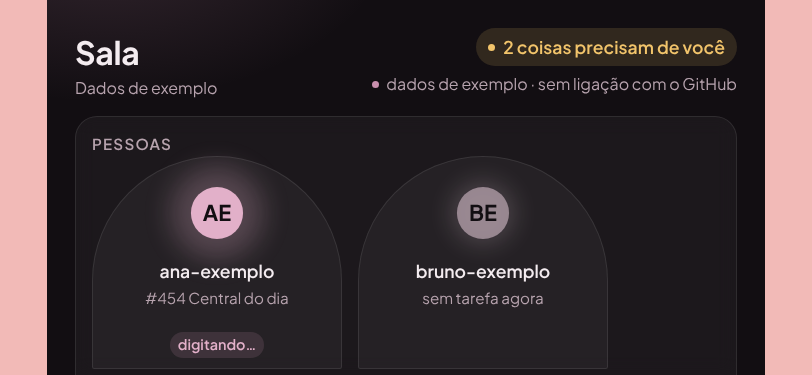
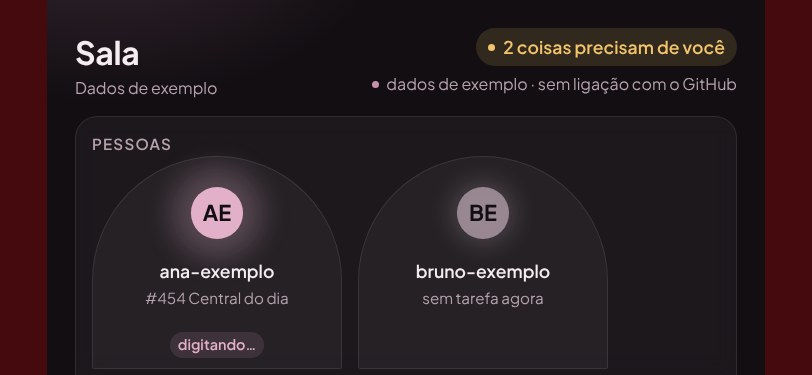
Painel: no modo TV, a faixa da franja fica escura como a Sala (opção B da Sofia, #604)
Claude-Session: https://claude.ai/code/session_01HaLxPxoPj5w5Pmb8oMm6Qx

Changed region(s): [[0.9236, 0.0, 1.0, 1.0], [0.0, 0.0, 0.0616, 1.0]]

diff --git a/painel/src/App.test.tsx b/painel/src/App.test.tsx
@@ -115,6 +115,20 @@ describe("App", () => {
     expect(renderToString(<TelaDeEntrada />)).not.toContain("safe-area-inset");
   });
 
+  it("modo TV deitado no tema claro (#604, opção B da Sofia): a faixa da franja fica com o escuro da Sala", async () => {
+    // A margem do body é pintada com o fundo do body; a Sala é sempre escura (--bg da .sala-j).
+    const fs = "node:fs";
+    const { readFileSync } = (await import(/* @vite-ignore */ fs)) as { readFileSync: (u: URL, c: "utf8") => string };
+    const estiloCss = readFileSync(new URL("./estilo.css", import.meta.url), "utf8");
+    const salaCss = readFileSync(new URL("./componentes/sala/sala.css", import.meta.url), "utf8");
+    const fundoDaSala = /\.sala-j\s*\{[^}]*--bg:\s*(#[0-9a-f]{6})/i.exec(salaCss)?.[1];
+    expect(fundoDaSala).toBeDefined();
+    const regra = /body:has\(\.sala-tv\)\s*\{([^}]*)\}/.exec(estiloCss);
+    expect(regra).not.toBeNull();
+    expect(regra![1]).toMatch(new RegExp(`background:\\s*${fundoDaSala}`, "i"));
+    expect(html("/sala", "?tv")).toContain("sala-tv");
+  });
+
   it("a meta viewport tem viewport-fit=cover (#561): sem ele o iPhone ignora a área segura da barra de baixo", () => {
     const meta = /<meta\s+name="viewport"\s+content="([^"]*)"/.exec(paginaHtml);
     expect(meta).not.toBeNull();

diff --git a/painel/src/estilo.css b/painel/src/estilo.css
@@ -80,6 +80,12 @@ body {
   font-family: var(--font-sans);
 }
 
+/* No modo TV a Sala é sempre escura: a faixa da franja (a margem acima) fica com o mesmo escuro,
+   e não com o fundo claro do tema (opção B da Sofia, #604). A cor é o --bg da .sala-j (sala.css). */
+body:has(.sala-tv) {
+  background: #120e12;
+}
+
 /* Foco do teclado sempre visível. Dentro de @layer base pra que uma classe do Tailwind
    (ex.: o contorno pra dentro das linhas da lista, que têm overflow-hidden) possa ajustar. */
 @layer base {

diff --git a/docs/relatorios/2026-10-19-tarefa-604-frontend.md b/docs/relatorios/2026-10-19-tarefa-604-frontend.md
@@ -36,15 +36,19 @@
 ## Fotos
 Em `docs/relatorios/fotos/tarefa-604/`: o modo TV (`tv-*`), a tela de entrada (`entrada-*`) e a Leva (`leva-*`), em 375 px e deitado (812×375), claro e escuro. As `*-com-franja` imitam a área segura do iPhone deitado (o Chromium não tem franja): trocam o `env()` por 47 px e pintam a faixa da franja de vermelho. Nada cortado, nada passa da largura.
 
+## A escolha da Sofia: opção B
+- No tema claro, o modo TV (sempre escuro) ganhava duas faixas claras onde fica a franja (`opcoes/A-tv-claro-franja-fundo-do-body.png`). Mostrei A e B; a Sofia escolheu a **B** ("B e pode mesclar", 19/10): `body:has(.sala-tv) { background: #120e12 }` no `estilo.css`, a mesma cor do `--bg` da `.sala-j` (`opcoes/B-tv-claro-franja-fundo-escuro.png`).
+- Teste **visto reprovar** antes da regra (a regra não existia); ele confere que a cor é a mesma do `--bg` da `sala.css`, pra não desencontrar se a Sala mudar de cor.
+- Foto com a regra de verdade (só a franja imitada, sem vermelho): `tv-deitado-812x375-claro-com-franja-sem-vermelho.png`. A tela de entrada continua clara (a regra só vale com a Sala de TV na tela).
+
 ## O que ficou de fora
-- **Uma escolha de aparência, pra Sofia** (`opcoes/`): no tema claro, o modo TV (que é sempre escuro) ganha duas faixas claras nas laterais, onde fica a franja (`A-tv-claro-franja-fundo-do-body.png`). A opção B pinta o fundo do body de escuro quando o modo TV está aberto (`body:has(.sala-tv)`, `B-tv-claro-franja-fundo-escuro.png`). Recomendo a B (uma linha no `estilo.css`); não fiz porque aparência se decide por imagem com ela. Só aparece em celular com franja deitado; na TV e no PC a área segura é zero.
+- Nada.
 
 ## O que depende de alguém
-- A Sofia: escolher A ou B acima.
 - Depois de publicar: num iPhone deitado, o modo TV e a tela de entrada não encostam na franja (sem iPhone à mão, anotar e seguir).
 
 ## Onde parou
-Terminei (falta só a escolha A/B).
+Terminei.
 
 ## Como eu agi
 - **O que a skill me ajudou a fazer**: o "conferir que nada dobra" levou ao teste que reprova com a margem repetida.
